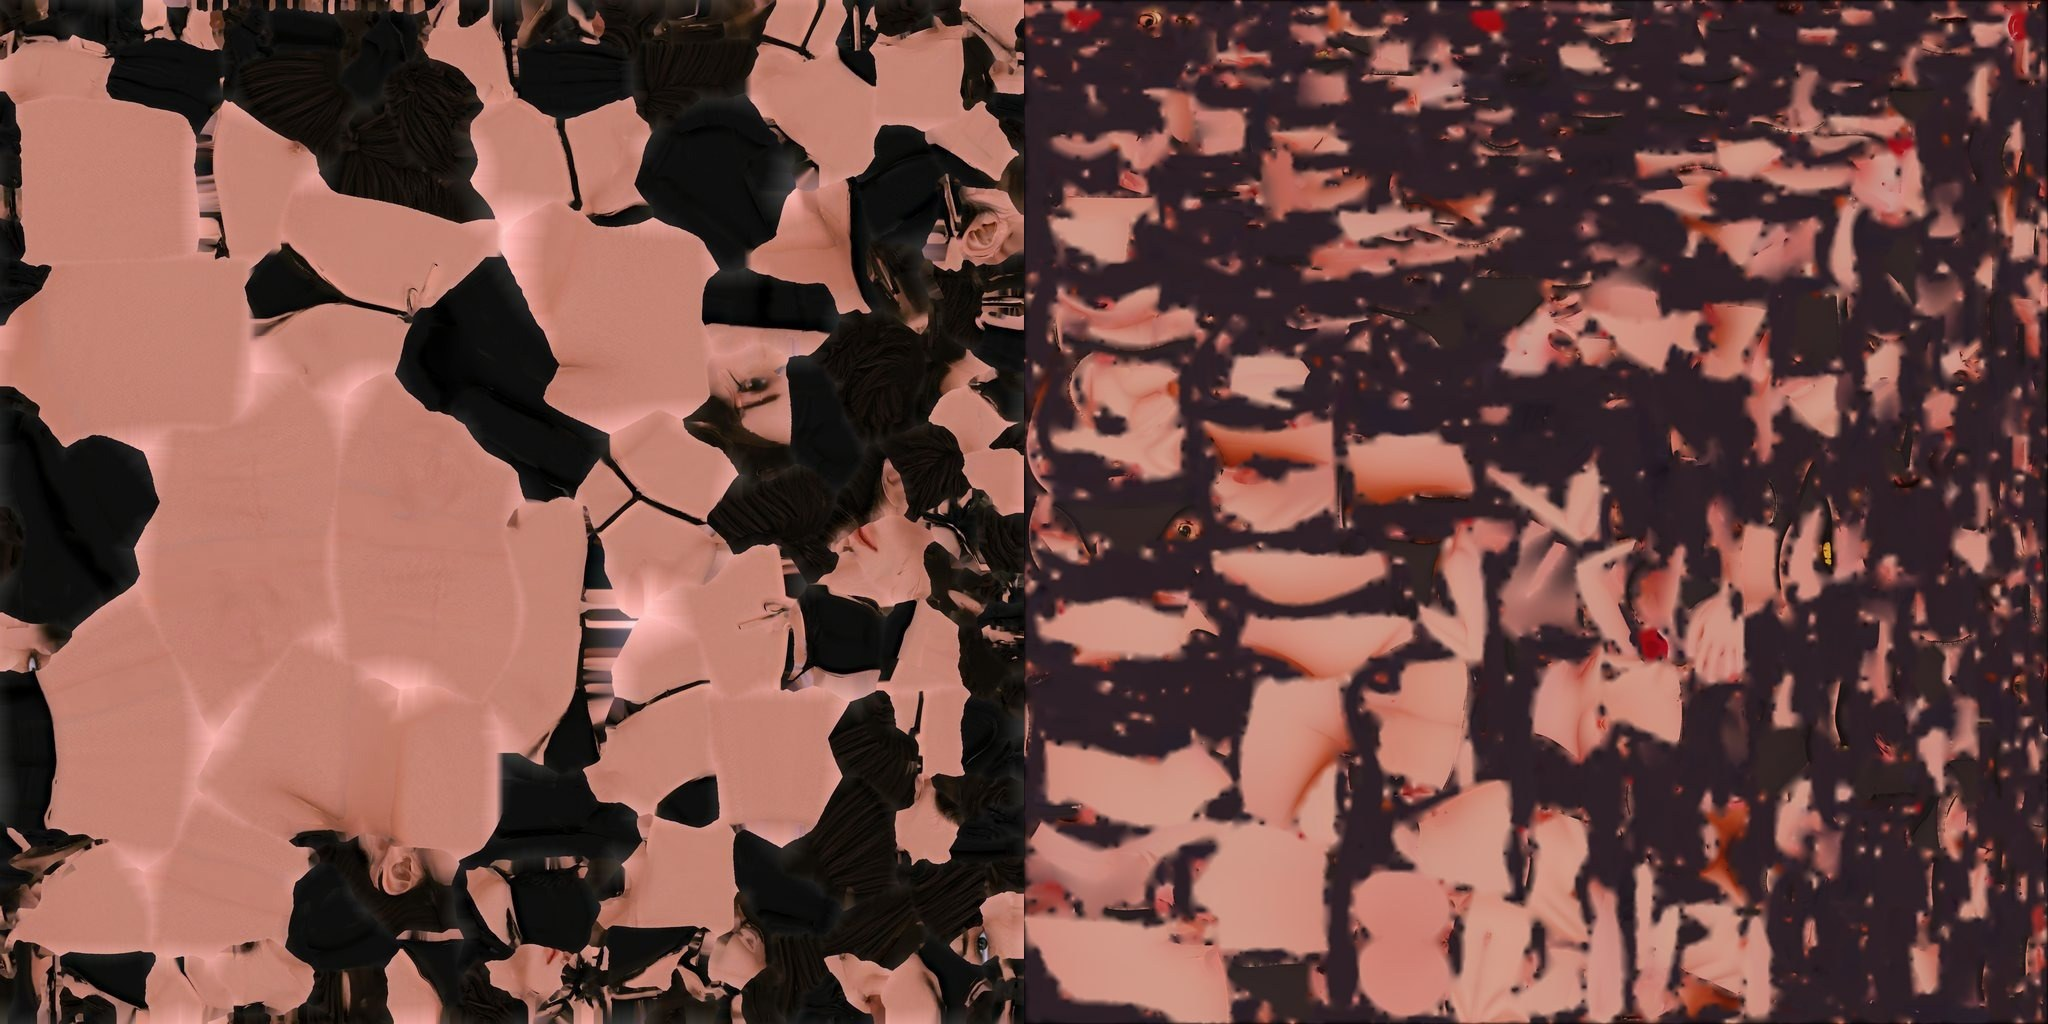
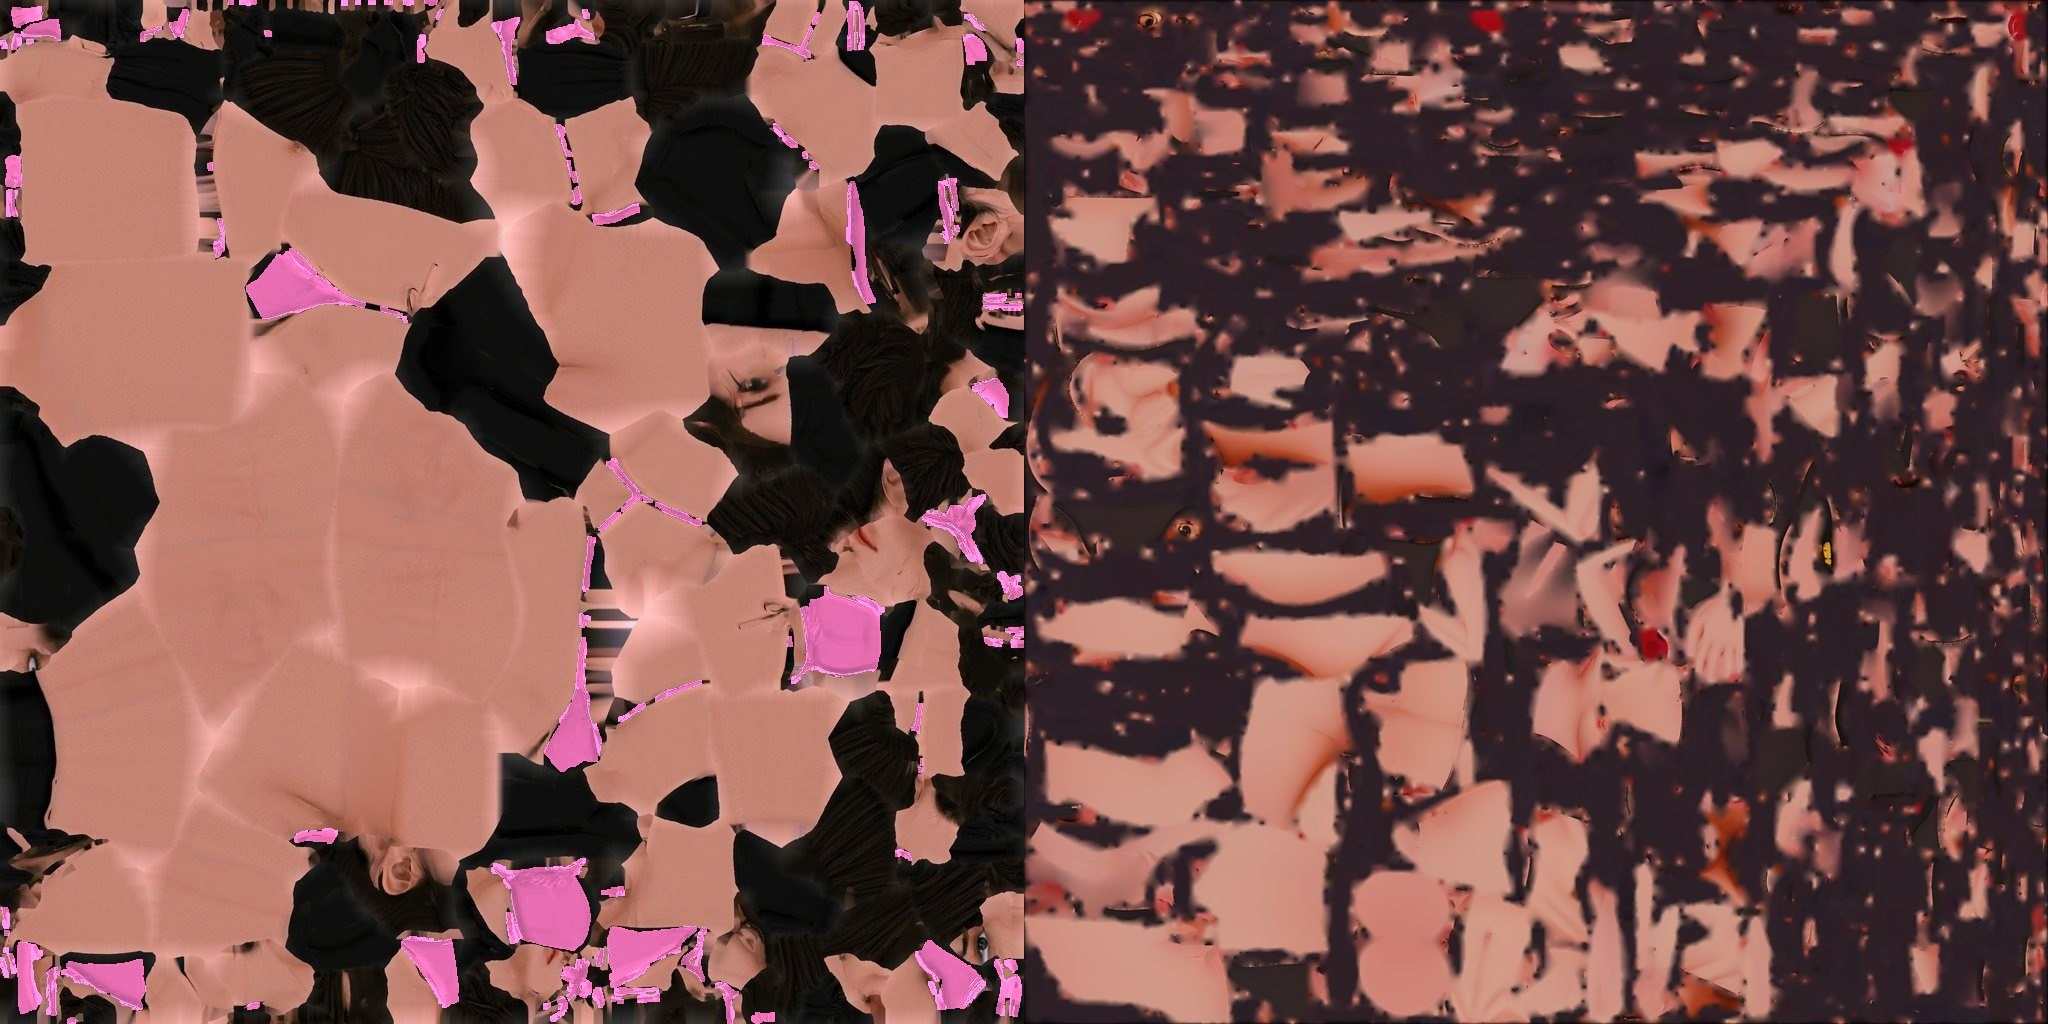
Anime Girl: pink bikini
Claude-Session: https://claude.ai/code/session_013nJUEz6fhvJgmXenou7Czv

diff --git a/public/index.html b/public/index.html
@@ -3829,7 +3829,7 @@ function rrFace(T,add,M,head,k,fur,lt){const dk=M(0x111111,{roughness:.25}),pink
    direction (thigh forward, arms down). The mesh attaches when the file arrives; until then the rig is invisible. */
 /* one entry per sculpted skin (rig proportions from its bake; v2 files carry their own bone list) */
 const HUMAN_V={diamond:{f:"diamond",hip:.11,thigh:.396,sh:[.173,.56,.024],L1:.281,L2:.243,head:[0,.704,.01],chest:[0,.214,-.055],rise:.396*1.12,lsOff:[.07,.2,-.15]},
-  ag:{f:"ag",v:8,nc:0xe9b8a2,hip:.11,thigh:.396,sh:[.173,.56,.024],L1:.281,L2:.243,head:[0,.704,.01],chest:[0,.214,-.055],rise:.396*1.12,lsOff:[.07,.2,-.15]},
+  ag:{f:"ag",v:9,nc:0xe9b8a2,hip:.11,thigh:.396,sh:[.173,.56,.024],L1:.281,L2:.243,head:[0,.704,.01],chest:[0,.214,-.055],rise:.396*1.12,lsOff:[.07,.2,-.15]},
   uni:{f:"uni",nc:0xf1eef0,hip:.2597,thigh:.2288,sh:[.1766,.9019,.0052],L1:.3991,L2:.291,head:[0,.9955,0],rise:-.14,gy:-.016,lsOff:[.08,.3,-.3]},
   cerb:{f:"cerb",nc:0x24282e,emis:1,hip:.1038,thigh:.5398,sh:[.1868,.6,.0311],L1:.284,L2:.2475,head:[0,.7038,.0415],rise:.6046,lsOff:[.06,.2,-.12]}};
 const HUMAN_P={};
